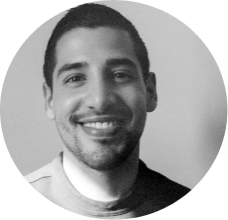
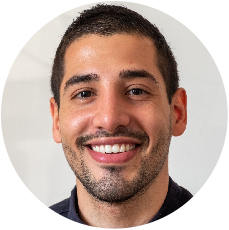
replaces team photos

diff --git a/index.html b/index.html
@@ -45,17 +45,10 @@
     <div class="row">
       <div class="col-lg-6 pt-5 pt-lg-0 order-2 order-lg-1 d-flex flex-column justify-content-center">
         <div>
-          <h1>We design digital products that help grow businesses</h1>
+          <h1>A whole universe of possibilities</h1>
           <div class="divider"></div>
           <p class="banner-text">At Thru we believe in design as a powerful
-            tool to transform a company's world. We
-            thruly believe It's all about intelligence,
-            strategy, and creativity. These are the
-            pillars that differentiate us in business, and
-            how we solve problems for our clients. UX
-            connects us all to the world around us and
-            helps our clients grow and reach their
-            goals.</p>
+            tool to transform a company's world. We believe It's all about intelligence, strategy, and creativity. These are the pillars that differentiate us in business, and how we solve problems for our clients.</p>
           <a href="/contact.html" class="btn-get-started scrollto"><strong>Get Started</strong></a>
         </div>
       </div>
@@ -71,53 +64,38 @@
 
 <main>
 
-<section id="featured-services" class="featured-services">
-  <div class="container aos-init aos-animate" data-aos="fade-up">
+
+<section id="featured-services" class="featured-services section-bg">
+  <div class="container">
     <h2 class="intro-services">We do:</h2>
-    <div class="row">
-      <div class="col-md-6 col-lg-3 d-flex align-items-stretch mb-5 mb-lg-0">
-        <div class="icon-box aos-init aos-animate" data-aos="fade-up" data-aos-delay="100">
+
+    <div class="row no-gutters">
+      <div class="col-lg-4 col-md-6">
+        <div class="icon-box">
           <div class="icons-div"><img src="images/ux.png" alt="Multimedia" class="icons-home"></div>
-          <h4 class="title-carousel">UX/UI</h4>
-          <p class="description-carousel">We focus on best-in-class UX/UI that gives users an intuitive experience they'll love.</p>
-          <a class="learn" href="/solutions.html"><strong>Learn More →</strong></a>
-  
+          <h4 class="title-services-home"><a href="https://drive.google.com/file/d/10ZYPKj-Syye4qBommXdRIlgAZ0qDiEvb/view?usp=sharing">UX/UI</a></h4>
+          <p class="text-services-home">We focus on best-in-class UX/UI that gives users an intuitive experience they'll love.</p>
         </div>
       </div>
-
-      <div class="col-md-6 col-lg-3 d-flex align-items-stretch mb-5 mb-lg-0">
-        <div class="icon-box aos-init aos-animate" data-aos="fade-up" data-aos-delay="200">
+      <div class="col-lg-4 col-md-6">
+        <div class="icon-box">
           <div class="icons-div"><img src="images/marketing.png" alt="Multimedia" class="icons-home"></div>
-          <h4 class="title-carousel">Marketing</h4>
-          <p class="description-carousel">No better time than now to collaborate on mouth-watering content.</p>
-          <a class="learn" href="/solutions.html"><strong>Learn More →</strong></a>
-        
+          <h4 class="title-services-home"><a href="https://drive.google.com/file/d/1NiQD9TUvZ0FdGBVTqHaUj2IiheGFg4Qt/view?usp=sharing">Marketing</a></h4>
+          <p class="text-services-home">No better time than now to collaborate on mouth-watering content.</p>
         </div>
       </div>
-
-      <div class="col-md-6 col-lg-3 d-flex align-items-stretch mb-5 mb-lg-0">
-        <div class="icon-box aos-init aos-animate" data-aos="fade-up" data-aos-delay="200">
+      <div class="col-lg-4 col-md-6">
+        <div class="icon-box">
           <div class="icons-div"><img src="images/web.png" alt="Multimedia" class="icons-home"></div>
-          <h4 class="title-carousel">Web Design</h4>
-          <p class="description-carousel">Our team crafts experiences that generate online sales and loyalty.</p>
-          <a class="learn" href="/solutions.html"><strong>Learn More →</strong></a>
-         
+          <h4 class="title-services-home"><a href="https://drive.google.com/file/d/1XRivkAmkJgyidRLb7r0e-eJ3vXqWbHO_/view?usp=sharing">Web Design</a></h4>
+          <p class="text-services-home">Our team crafts experiences that generate online sales and loyalty.</p>
         </div>
       </div>
-
-      <div class="col-md-6 col-lg-3 d-flex align-items-stretch mb-5 mb-lg-0">
-        <div class="icon-box aos-init aos-animate" data-aos="fade-up" data-aos-delay="200">
-          <div class="icons-div"><img src="images/brand.png" alt="Multimedia" class="icons-home"></div>
-          <h4 class="title-carousel">Branding</h4>
-          <p class="description-carousel">We craft brands that are unique, rebellious, and hard to resist.</p>
-          <a class="learn" href="/solutions.html"><strong>Learn More →</strong></a>
-        </div>
-      </div>
-
     </div>
 
   </div>
 </section>
+
 
 
 <!-- Adds clients -->

diff --git a/about.html b/about.html
@@ -53,11 +53,6 @@
       </div>
       <div class="col-lg-5 d-flex align-items-end">
         <div class="content ps-0 ps-lg-5">
-          <h3 class="title-about">Our Story</h3>
-          <p class="text-about">Thru was founded with a vision to transform the way users interact with technology. 
-            Our journey began with a small team of designers and developers who shared a common goal: to create intuitive and user-friendly experiences that bridge the gap between users and technology. 
-            Over the years, our dedication to innovation and excellence has allowed us to grow into a dynamic firm that serves clients across various industries.</p>
-          
             <h3 class="title-about">What set us apart:</h3>
           <p class="text-about">At Thru, we take a holistic approach to UX design. 
             We don't just focus on aesthetics; we delve deep into understanding your users, their motivations, and pain points. 
@@ -105,7 +100,7 @@
 
       <div class="col-lg-4 col-md-6 d-flex align-items-center justify-content-center">        
         <div class="member-img justify-content-center">
-          <img src="images/CFO.png" class="img-fluid1" alt="Picture of Mateo">
+          <img src="images/CFO.png" class="img-fluid" alt="Picture of Mateo">
         </div>
         <div class="member-info text-center">
           <h3 class="title-about">Alejandro Seguro</h3>

diff --git a/css/main.css b/css/main.css
@@ -6,11 +6,13 @@
   h1{
     color: #585858;
     font-family: 'Outfit', sans-serif;
+    font-size: 50px;
   }
   
   
   .divider{
     border: 3px solid #5fb585;
+    margin: 10px 0 10px 0 ;
   
   }
   
@@ -44,14 +46,14 @@
     margin-top: 10px;
   }
     
-  .title-carousel{
-    margin-top: 60px;
+  .title-services-home{
+    margin-top: 20px;
     font-family: 'Outfit', sans-serif;
     color: white;
   
   }
   
-  .description-carousel{
+.text-services-home{
     font-family: 'Arvo', serif;
     color: white;
     font-size: small;
